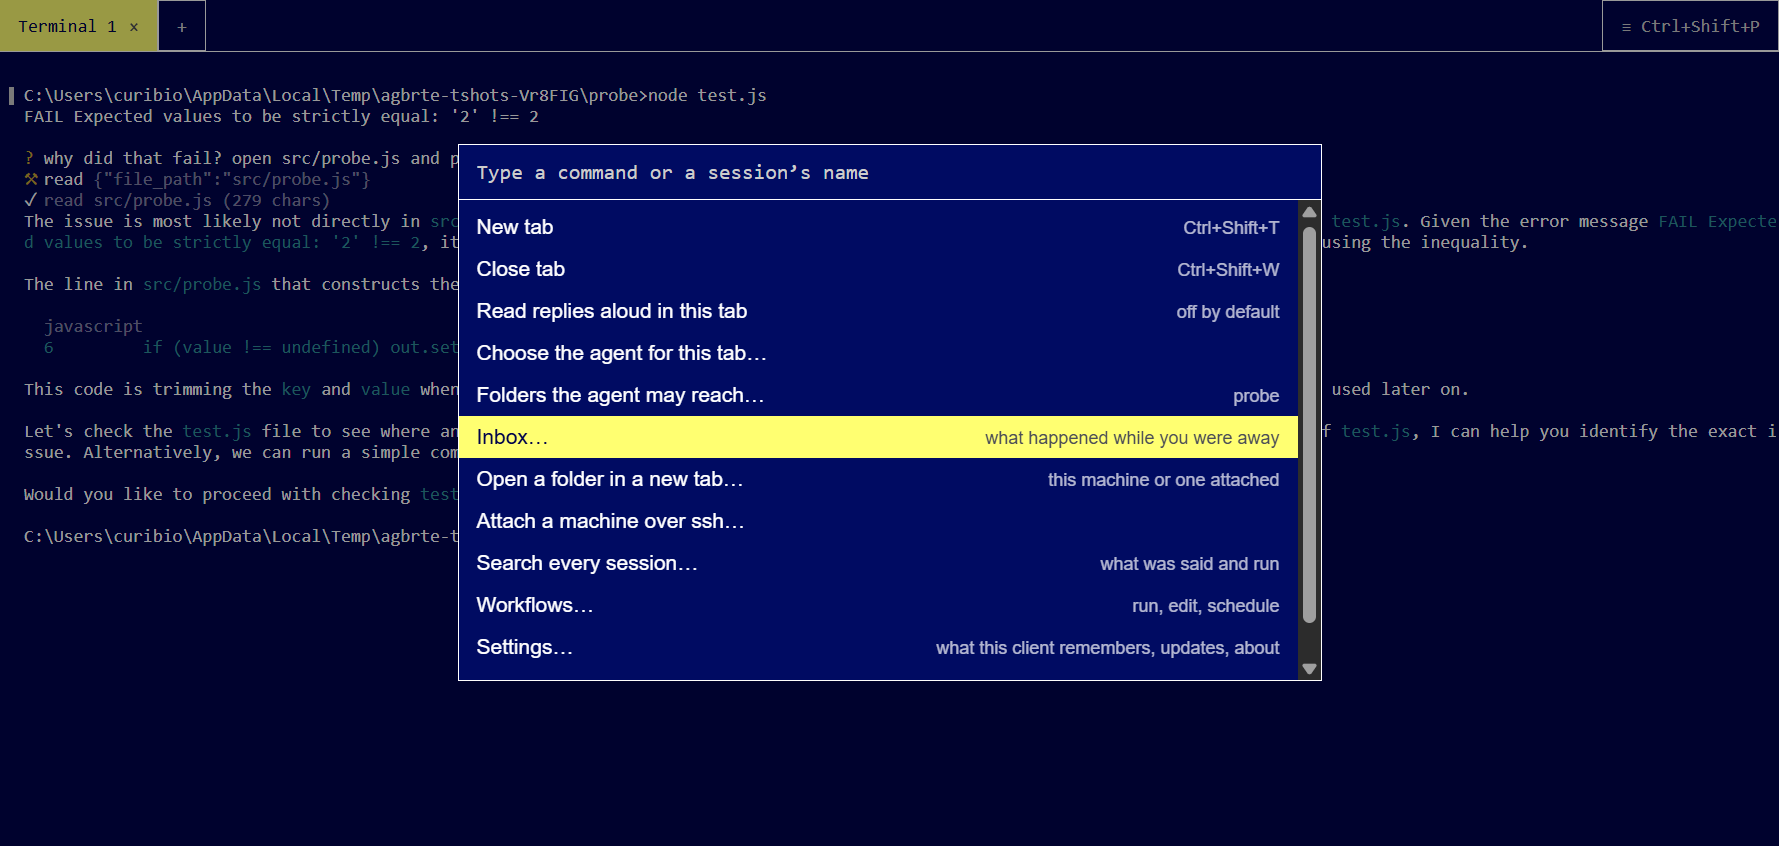
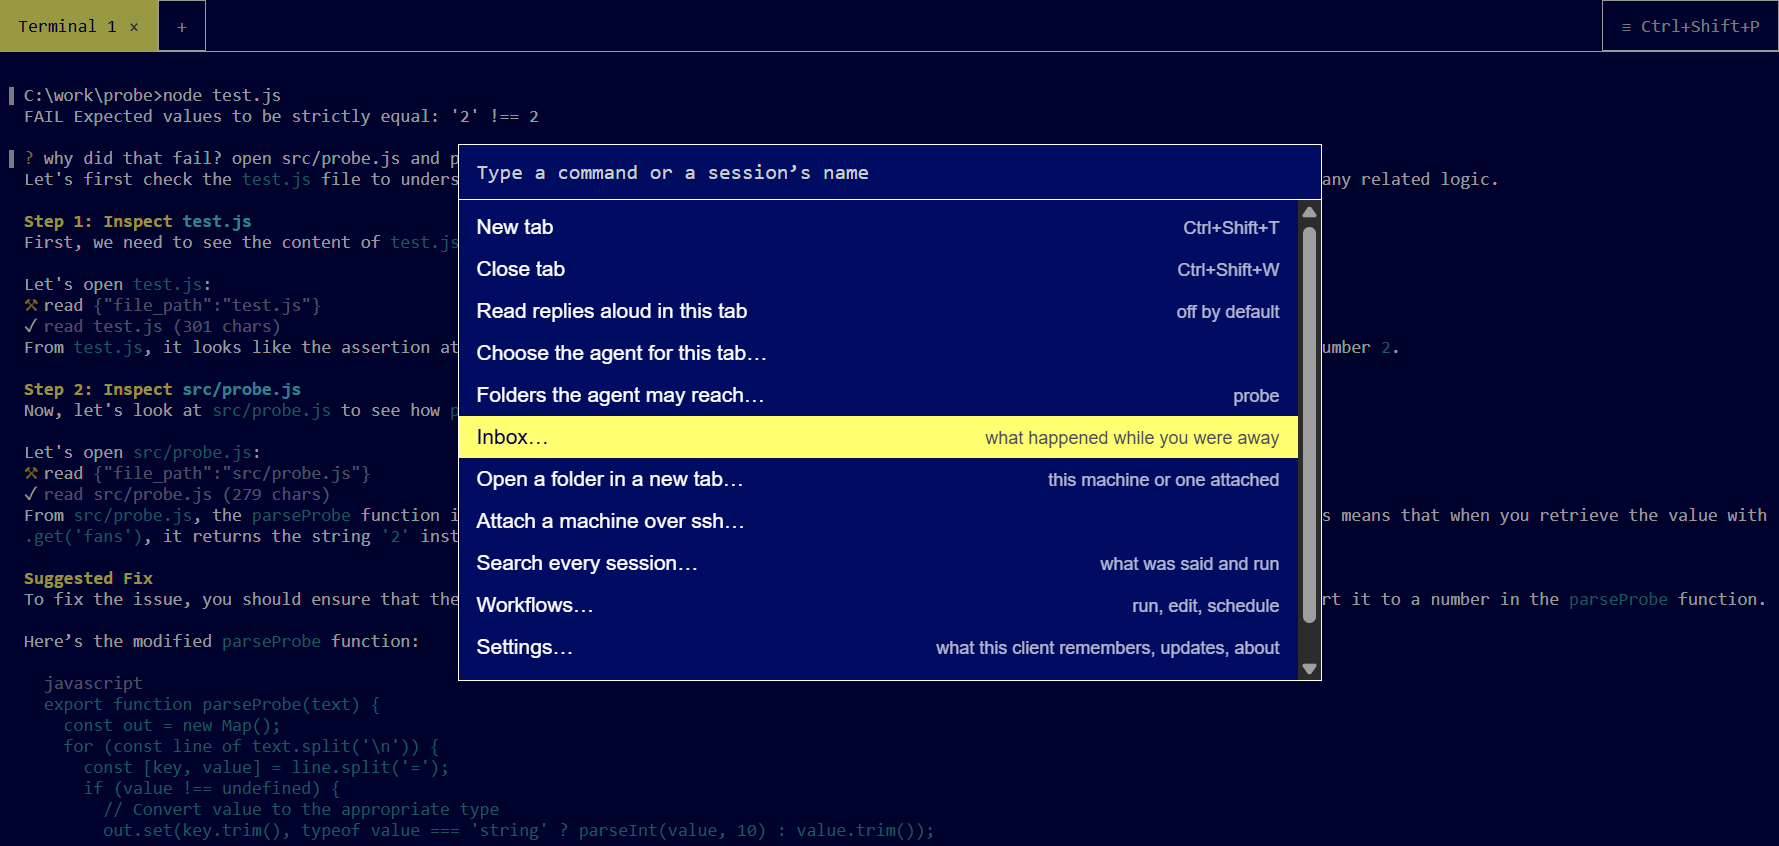
Retake the terminal screenshots without the account name in them
The four terminal screenshots on the landing page and in the README were taken
in a repository under tmpdir(), which on Windows is the user profile's Temp
folder. cmd's prompt and the grant dialog both print the working folder, so the
account name of whoever ran the spec was published four times over. The spec
now puts the repository in a short folder at the drive's root on Windows; on
other platforms tmpdir() names no one and stays.

Retaking them also showed the scroll-back stopping too early: it looked for
"node test.js" on screen, and an answer that says "the node test.js command
failed" matched before the view had moved, so the command was off the top of
the picture. On Windows it now looks for the command after cmd's ">".

The old pictures remain in the history of docs/shots.

diff --git a/tests/e2e/terminalShots.spec.ts b/tests/e2e/terminalShots.spec.ts
@@ -19,9 +19,9 @@
  */
 
 import { expect, test, type Page } from '@playwright/test';
-import { mkdir, writeFile } from 'node:fs/promises';
+import { mkdir, rm, writeFile } from 'node:fs/promises';
 import { join, resolve } from 'node:path';
-import { tempFixture } from './fixtureDirs.js';
+import { recordFixture, tempFixture } from './fixtureDirs.js';
 import { launchWith, makeRepo, modelAvailable, warmModel } from './harness.js';
 
 const OUT = resolve('.shots');
@@ -59,9 +59,28 @@ async function settle(page: Page): Promise<void> {
   }
 }
 
+/**
+ * Where the repository goes: the folder is on every prompt and in the grant
+ * dialog, so it is in every picture.
+ *
+ * The first set was taken under `tmpdir()`, and on Windows that is
+ * `C:\Users\<name>\AppData\Local\Temp\…` — the account name of whoever ran the
+ * spec, published on the landing page and the README four times. A short folder
+ * at the drive's root says nothing about the machine and leaves the prompt room
+ * for the command. Elsewhere `tmpdir()` names no one, so it stays.
+ */
+async function shotsRoot(): Promise<string> {
+  if (process.platform !== 'win32') return await tempFixture('agbrte-tshots-');
+  const root = join(`${process.env['SystemDrive'] ?? 'C:'}\\`, 'work');
+  await rm(join(root, 'probe'), { recursive: true, force: true });
+  await mkdir(root, { recursive: true });
+  await recordFixture(join(root, 'probe'));
+  return root;
+}
+
 /** A small repository with one bug, and a test that finds it. */
 async function probeRepo(): Promise<string> {
-  const repo = await makeRepo(join(await tempFixture('agbrte-tshots-'), 'probe'));
+  const repo = await makeRepo(join(await shotsRoot(), 'probe'));
   await mkdir(join(repo, 'src'), { recursive: true });
   await mkdir(join(repo, 'docs'), { recursive: true });
   await writeFile(
@@ -170,10 +189,17 @@ test.describe('@shots', () => {
        * mux/session.ts), so the failure is one wheel-turn up rather than on
        * screen, and a picture of an answer without its question says nothing.
        * Typing the next command brings the view back down.
+       *
+       * Looked for with cmd's `>` in front: the answer itself may say "the node
+       * test.js command failed", and a bare `node test.js` then matched the
+       * reply, stopped the scroll before it started, and photographed an answer
+       * whose command was off the top. A POSIX prompt ends in `$`, `%` or `#`
+       * depending on the shell, so there the bare command is the best there is.
        */
+      const typed = process.platform === 'win32' ? '>node test.js' : 'node test.js';
       const box = await w.locator(ACTIVE).boundingBox();
       if (box !== null) await w.mouse.move(box.x + box.width / 2, box.y + box.height / 2);
-      for (let i = 0; i < 30 && !(await screen(w)).includes('node test.js'); i += 1) {
+      for (let i = 0; i < 30 && !(await screen(w)).includes(typed); i += 1) {
         await w.mouse.wheel(0, -40);
         await w.waitForTimeout(100);
       }
